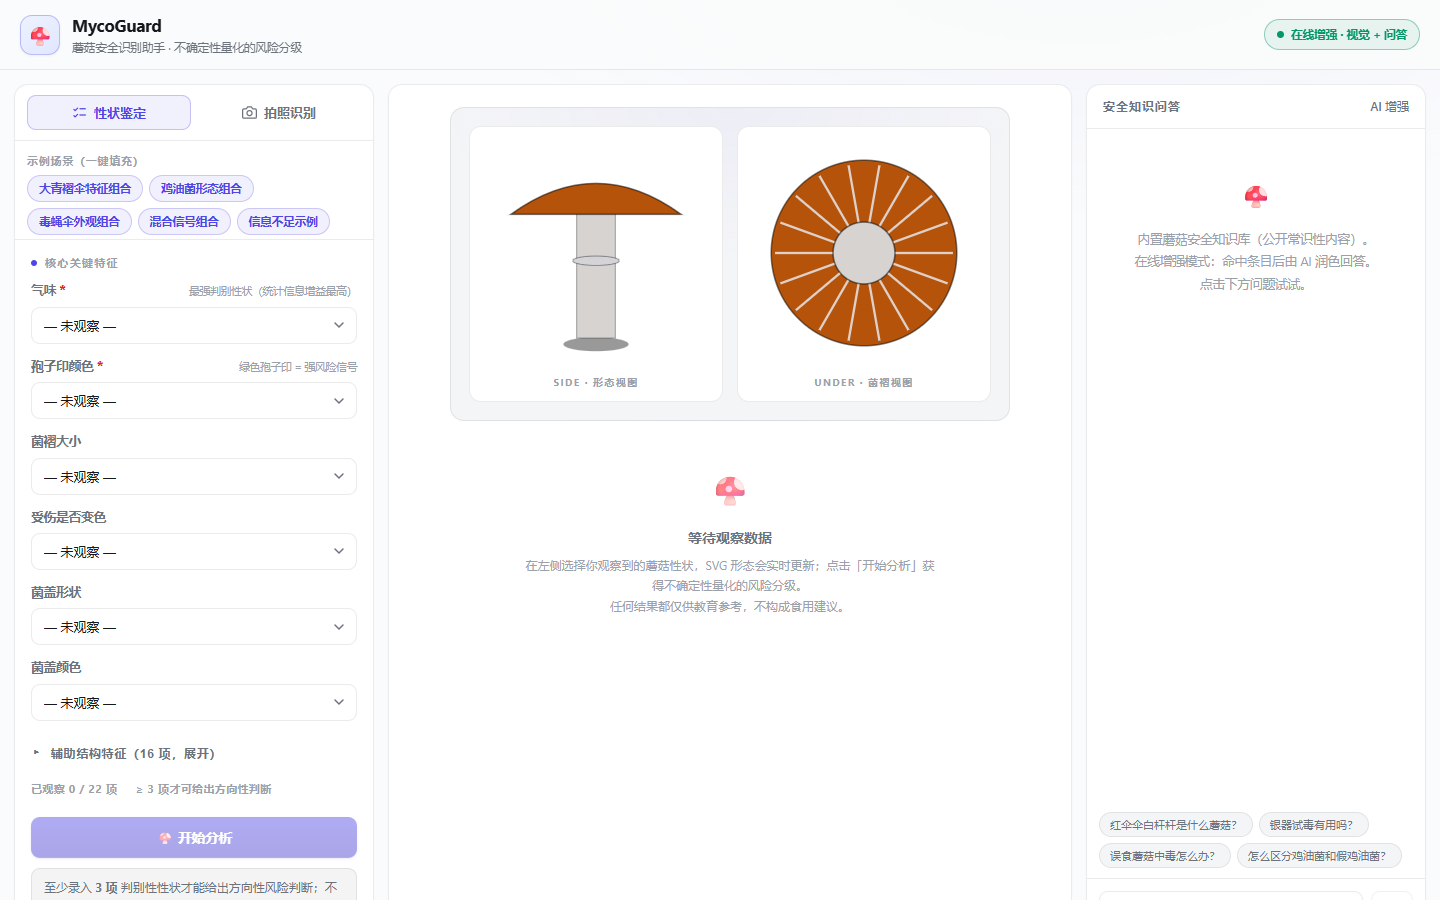
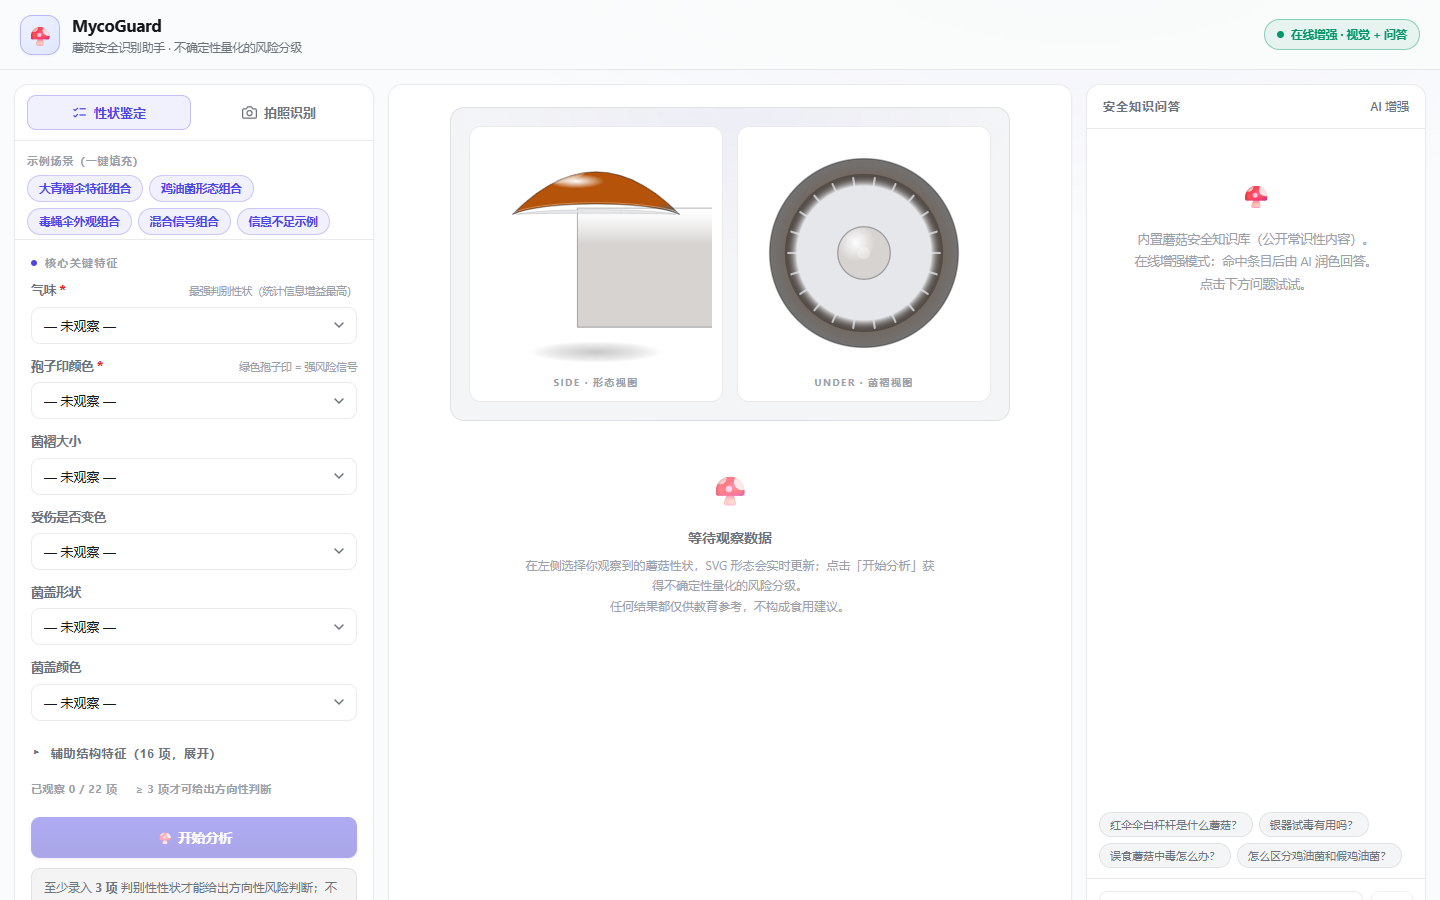
docs: v4 README (illustrated renderer, photo-flow UX, sample photos), refreshed screenshots

Changed region(s): [[0.5312, 0.1556, 0.6875, 0.4044], [0.3438, 0.1867, 0.5, 0.4044]]

diff --git a/README.md b/README.md
@@ -44,23 +44,25 @@ something you could actually put on GitHub.
 | Capability | Where | Notes |
 |---|---|---|
 | 22-trait manual selector | `src/` frontend | core + advanced groups |
-| Real-time SVG morphology renderer | `src/components/MushroomCanvas.tsx` | side + gill views |
+| Real-time SVG morphology renderer | `src/components/MushroomCanvas.tsx` | v4 product-illustration: gradients, lighting, per-trait textures (scales/grooves/fibres/gloss), ring & volva structures, 400 ms morph animation |
 | Offline rule engine | `src/engine/mushroomEngine.ts` | weights distilled from UCI data |
 | Uncertainty grading | engine | low / medium / high / **unknown** (forced when input < 3 traits) |
 | Confidence **interval** | engine + UI | `(0, 0.97]`, never 100% |
 | Photo identification | `app/` FastAPI → qwen-vl-plus | base64 proxied; keys never in the browser |
+| Photo flow UX | frontend | live stages (preparing → analyzing → traits extracted), **"vision" badges** on vision-derived traits, dual-channel pipeline strip, bundled **sample photos** (`samples/`, try without a camera) |
 | Offline-first degradation | `src/services/backend.ts` + `/api/health` | manual analysis works with no backend; photo/chat degrade to a clear message |
 | Safety-knowledge chat | `app/services/chat.py` | rule-first, optional DeepSeek |
-| Tests | vitest (89) + pytest (40) | see [Testing](#testing) |
+| Tests | vitest (98) + pytest (43) | see [Testing](#testing) |
 | Secret hygiene | `scripts/scan_secrets.py` | pre-commit scan; `.env` never committed |
 
 ---
 
 ## Screenshots
 
-![Manual trait mode with live SVG renderer](docs/screenshots/screenshot-1-landing.png)
+![Manual trait mode with the v4 illustrated SVG renderer](docs/screenshots/screenshot-1-landing.png)
 ![High-risk result: confidence interval, rule hits, offline expert narrative, disclaimer](docs/screenshots/screenshot-2-high-risk-result.png)
-![Photo identification mode](docs/screenshots/screenshot-3-photo-mode.png)
+![Photo identification mode with sample-photo entry](docs/screenshots/screenshot-3-photo-mode.png)
+![Bundled sample photo loaded into the photo mode](docs/screenshots/screenshot-4-photo-sample.png)
 
 Regenerate with `node scripts/capture_screenshots.mjs` (needs the backend
 running and `npm i -D playwright`; uses your installed Edge/Chrome).
@@ -204,7 +206,7 @@ Errors: `413` too large · `415` not an image · `503` vision not configured
 ## Testing
 
 ```bash
-npx vitest run          # frontend (89 tests): engine grading, forced-unknown,
+npx vitest run          # frontend (98 tests): engine grading, forced-unknown,
                         # confidence intervals, data-grounded rules, scenarios,
                         # confidence fusion, expert narrative, no-absolute-
                         # language, disclaimer presence, constants integrity,
@@ -242,7 +244,8 @@ mycoguard/
 │   ├── components/           # canvas, trait panel, scenario chips, photo
 │   │                         # capture, result, chat, disclaimer, icons
 │   ├── styles/global.css     # light design system (mobile-ready)
-│   └── __tests__/            # vitest (89 tests)
+│   └── __tests__/            # vitest (98 tests)
+├── samples/                  # bundled demo photos for the "试用样例" button
 ├── scripts/
 │   ├── analyze_dataset.py    # UCI RF distillation (evidence script)
 │   └── scan_secrets.py       # pre-commit secret scanner
@@ -294,7 +297,12 @@ mycoguard/
   判断、混合信号→中、信息不足→无法判断）；拍照模式置信度融合（视觉 model
   confidence 参与最终区间 + 双通道一致性指示）；离线结果页提供确定性"专家解读"
   （严格不弱于原版 Gemini 解释文本）。
-- **测试**：vitest 89 项 + pytest 40 项（LLM 全部 mock，离线可跑）。
+- **演示强化（v4）**：SVG 蘑菇渲染升级为"产品级插画"（径向/线性渐变光影、菌盖
+  鳞片/凹槽/纤维/高光纹理、菌环与菌托结构、性状变化 400ms 过渡动画）；拍照识别
+  展示完整过程状态（上传中 → 视觉分析中 → 性状已提取）、表单"vision"徽章标记
+  视觉来源性状、结果页"视觉 → 性状 → 规则引擎 → 融合置信度"双通道链路图；
+  `samples/` 内置样例照片，"试用样例"一键体验（无需相机）。
+- **测试**：vitest 98 项 + pytest 43 项（LLM 全部 mock，离线可跑）。
 
 **快速开始**：`npm install && npm run dev`（纯离线）；后端
 `pip install -r app/requirements.txt && uvicorn app.main:app --port 8000`，
